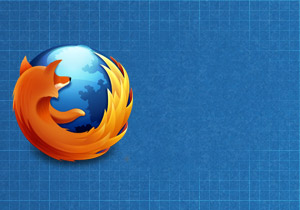
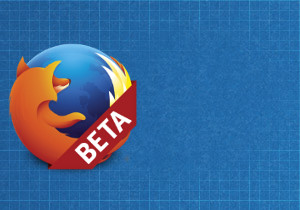
Update Firefox & mozfr branding

Changed region(s): [[0.03, 0.2, 0.48, 0.8286]]

diff --git a/mozfrtab/tabzilla.js b/mozfrtab/tabzilla.js
@@ -88,8 +88,8 @@ Tabzilla.jQueryCDNSrc =
     '//www.mozilla.org/media/js/libs/jquery-1.7.1.min.js';
 
 Tabzilla.LINK_TITLE = {
-    CLOSED: 'Mozilla links',
-    OPENED: 'Close (Esc)'
+    CLOSED: 'Liens Mozilla Francophone',
+    OPENED: 'Fermer (Échap)'
 }
 
 /**
@@ -558,7 +558,7 @@ Tabzilla.content =
     + '        <ul>'
     + '          <li><a href="https://www.mozilla.org/fr/firefox/fx/">Firefox</a></li>'
     + '          <li><a href="https://www.mozilla.org/fr/thunderbird/">Thunderbird</a></li>'
-    + '          <li><a href="https://www.mozilla.org/fr/firefox/partners/#os">Firefox OS</a></li>'
+    + '          <li><a href="https://www.mozilla.org/fr/firefox/os">Firefox OS</a></li>'
     + '          <li><a href="https://addons.mozilla.org/fr/">Extensions</a></li>'
     + '        </ul>'
     + '      </li>'

diff --git a/custom/views/default/index.tpl.php b/custom/views/default/index.tpl.php
@@ -10,7 +10,7 @@
   <title><?php echo $PlanetConfig->getName(); ?></title>
   <link rel="stylesheet" type="text/css" href="custom/style/mozfr.css" />
   <link rel="alternate" type="application/atom+xml" title="atom" href="./atom.xml" />
-  <link rel="shortcut icon" type="image/x-icon" href="./favicon.ico?v=2" />
+  <link rel="shortcut icon" type="image/x-icon" href="./favicon.ico?v=3" />
 </head>
 <body>
   <div id="wrapper">

diff --git a/custom/views/archive/index.tpl.php b/custom/views/archive/index.tpl.php
@@ -29,7 +29,7 @@
   <meta name="viewport" content="width=device-width,initial-scale=1" />
   <title><?php echo $PlanetConfig->getName(); ?></title>
   <link rel="stylesheet" type="text/css" href="custom/style/mozfr.css" />
-  <link rel="shortcut icon" type="image/x-icon" href="./favicon.ico" />
+  <link rel="shortcut icon" type="image/x-icon" href="./favicon.ico?v=3" />
 </head>
 <body>
   <div id="wrapper">
